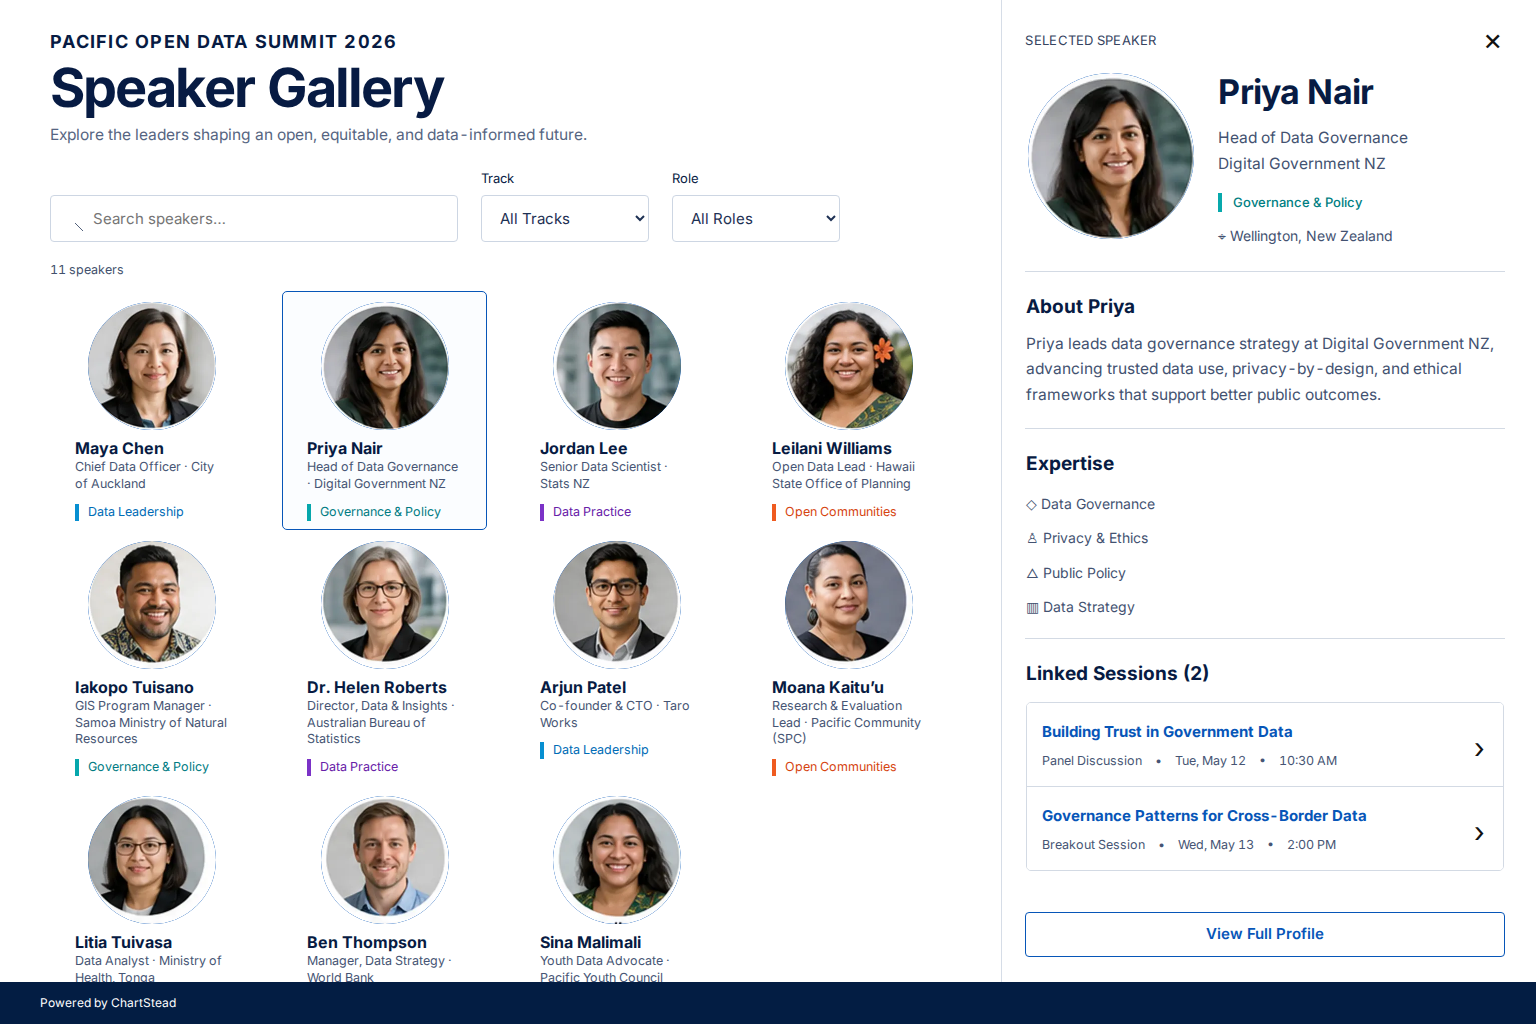
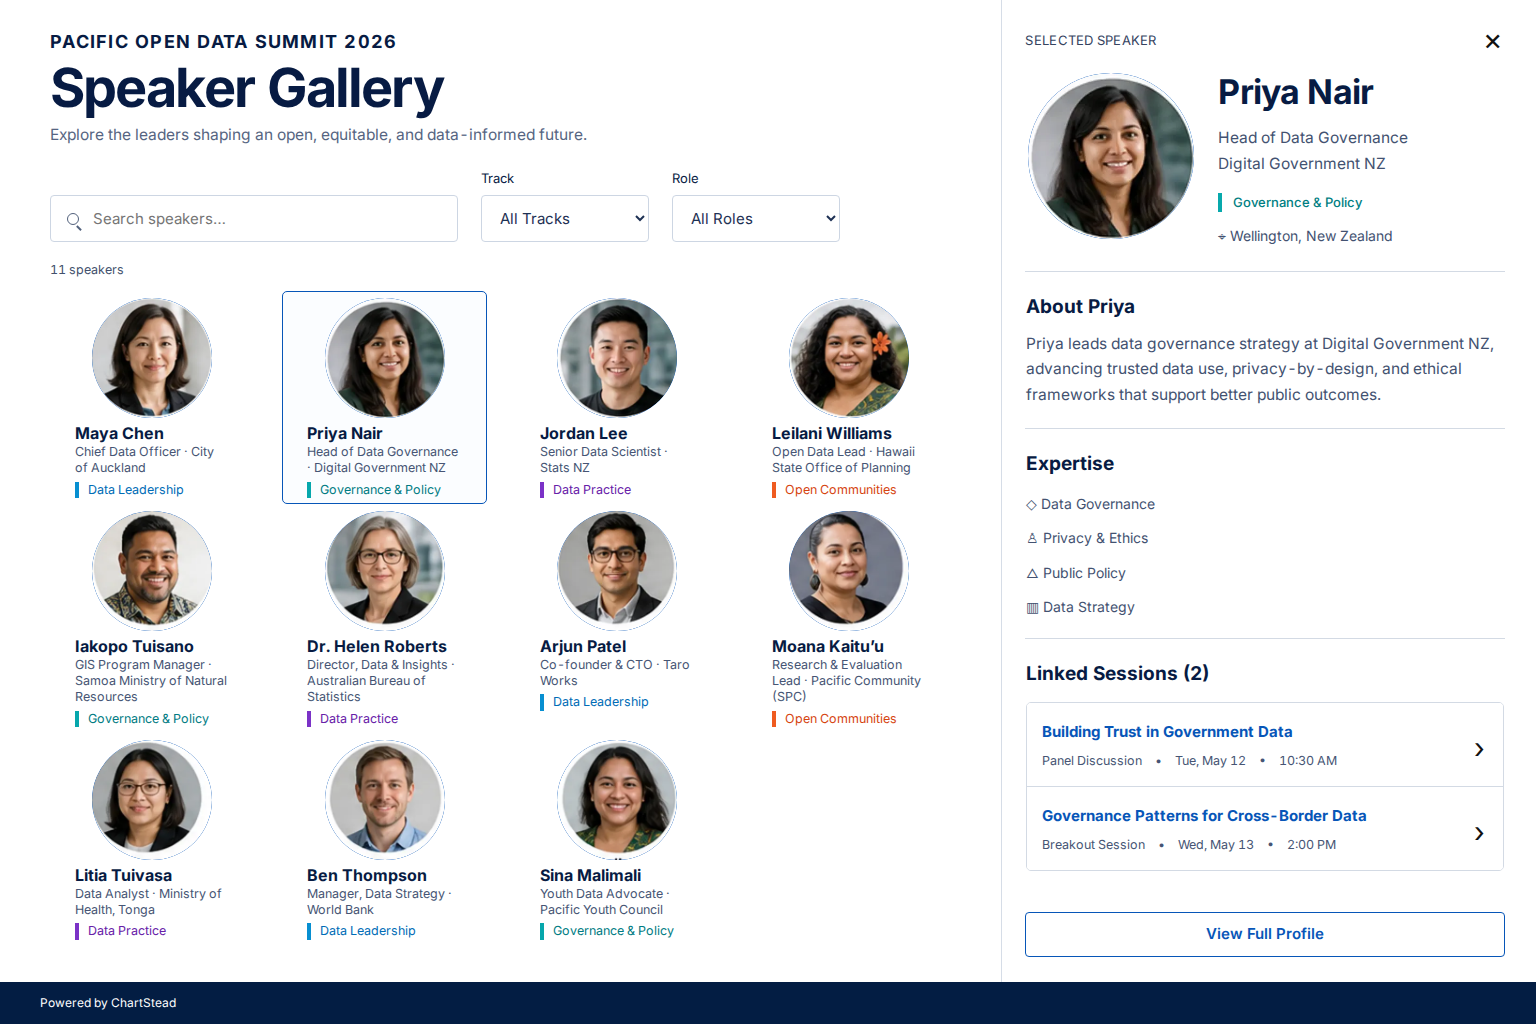
Keep speaker metadata clear of embed footer

diff --git a/src/styles.css b/src/styles.css
@@ -9148,18 +9148,21 @@ body:has(.agenda-auto-scope) .app-select-popup-toolbar {
 .signal-gallery-filters { display: grid; grid-template-columns: minmax(290px, 408px) 168px 168px; gap: 23px; align-items: end; margin-top: 23px; }
 .signal-gallery-filters label { display: grid; gap: 7px; font-size: 13px; color: #071b43; }
 .signal-gallery-filters input, .signal-gallery-filters select { width: 100%; height: 47px; padding: 0 14px; border: 1px solid #cdd6e3; border-radius: 4px; background: #fff; color: #1e3154; font: inherit; font-size: 15px; }
-.signal-gallery-filters input { padding-left: 42px; background: linear-gradient(45deg, transparent 45%, #52617c 46% 54%, transparent 55%) 24px 27px/8px 8px no-repeat; }
+.signal-search { position: relative; }
+.signal-search::before { content: ""; position: absolute; z-index: 1; left: 17px; bottom: 17px; width: 10px; height: 10px; border: 1.5px solid #52617c; border-radius: 50%; pointer-events: none; }
+.signal-search::after { content: ""; position: absolute; z-index: 1; left: 27px; bottom: 15px; width: 6px; height: 1.5px; background: #52617c; transform: rotate(45deg); transform-origin: left center; pointer-events: none; }
+.signal-gallery-filters input { padding-left: 42px; }
 .signal-gallery-filters input:focus-visible, .signal-gallery-filters select:focus-visible, .signal-gallery-grid button:focus-visible, .signal-speaker-panel button:focus-visible { outline: 3px solid #83b8ee; outline-offset: 2px; }
 .signal-gallery-count { margin: 19px 0 12px; font-size: 12.5px; color: #42516d; }
 .signal-gallery-grid { display: grid; grid-template-columns: repeat(4, minmax(0, 1fr)); column-gap: 28px; row-gap: 0; margin: 0; padding: 0; list-style: none; }
-.signal-gallery-grid .program-speaker-gallery-card { min-height: 220px; align-content: start; justify-items: start; gap: 8px; padding: 10px 24px 8px; border: 1px solid transparent; border-radius: 5px; background: transparent; text-align: left; }
+.signal-gallery-grid .program-speaker-gallery-card { min-height: 204px; align-content: start; justify-items: start; gap: 5px; padding: 6px 24px 5px; border: 1px solid transparent; border-radius: 5px; background: transparent; text-align: left; }
 .signal-gallery-grid .program-speaker-gallery-card:hover { background: #f7f9fc; }
 .signal-gallery-grid .program-speaker-gallery-card[aria-pressed="true"] { border-color: #0756b8; outline: 0; background: #fbfdff; }
-.signal-gallery-grid .program-speaker-avatar.is-large { width: 128px; height: 128px; margin-inline: auto; border: 0; }
+.signal-gallery-grid .program-speaker-avatar.is-large { width: 120px; height: 120px; margin-inline: auto; border: 0; }
 .signal-gallery-grid .program-speaker-gallery-card > span:not(.program-speaker-avatar) { display: grid; gap: 1px; width: 100%; }
 .signal-gallery-grid .program-speaker-gallery-card strong { font-size: 16px; line-height: 1.25; color: #071b43; }
-.signal-gallery-grid .program-speaker-gallery-card span span { font-size: 12.5px; line-height: 1.35; color: #465574; }
-.signal-gallery-grid .program-speaker-gallery-card span span::after { content: "Data Leadership"; display: block; margin-top: 11px; padding-left: 9px; border-left: 4px solid #078fd1; color: #006cb6; white-space: nowrap; }
+.signal-gallery-grid .program-speaker-gallery-card span span { font-size: 12.5px; line-height: 1.3; color: #465574; }
+.signal-gallery-grid .program-speaker-gallery-card span span::after { content: "Data Leadership"; display: block; margin-top: 5px; padding-left: 9px; border-left: 4px solid #078fd1; color: #006cb6; white-space: nowrap; }
 .signal-gallery-grid li:nth-child(3n+2) .program-speaker-gallery-card span span::after { content: "Governance & Policy"; border-color: #06a7ac; color: #007b83; }
 .signal-gallery-grid li:nth-child(3n) .program-speaker-gallery-card span span::after { content: "Data Practice"; border-color: #7b32c7; color: #6720a8; }
 .signal-gallery-grid li:nth-child(4n) .program-speaker-gallery-card span span::after { content: "Open Communities"; border-color: #ef5b20; color: #d6440f; }

diff --git a/.scratch/chartstead-competition-build/issues/46-premium-speaker-gallery-embed.md b/.scratch/chartstead-competition-build/issues/46-premium-speaker-gallery-embed.md
@@ -32,3 +32,4 @@ None — Competition 09 and Rubric 23 already provide the working public embed f
 - 2026-08-14 — Deterministic comparison route: `http://100.105.117.93:5446/e/pacific-open-data-summit-2026/program/embed?widget=speaker-gallery&fixture=signal-rail`. Capture: `npx playwright screenshot --viewport-size=1536,1024 --wait-for-timeout=900 '<route>' .scratch/qa/ticket-46/final.png`.
 - 2026-08-14 — Visual comparison ledger (3 iterations): (1) structure constrained by inherited 960px widget width, missing Role control, page chrome and oversized rows; corrected with full-width embed shell and widget-local grid. (2) correct four-column rail and detail structure, but selected portrait sat 18px low, rows were too tall, footer below viewport, and source ordering was lost; corrected rail density, intro spacing, fixed attribution, and stable fixture order. (3/final) no meaningful mismatch remains in structure, alignment, scale, spacing, typography, color, borders, controls, portrait crops, imagery, or density. Final evidence: `design/qa/ticket-46/speaker-gallery-final-1536x1024.png`; narrow evidence: `.scratch/qa/ticket-46/narrow-390x844.png`.
 - 2026-08-14 — Verification: `npm run build`; `npm run test:ui -- --run test/ui/public-program.test.tsx` (10/10); `/api/events` JSON 200; fixture 200; listener confirmed on `0.0.0.0:5446`. Status intentionally remains `in-progress` for orchestrator review.
+- 2026-08-14 — Independent review found the fixed footer obscured third-row metadata in iteration 3. Iteration 4 reduced gallery-only portrait/card vertical density and replaced the improvised search slash with a local CSS magnifier. At exactly 1536×1024, Litia, Ben, and Sina now show complete role, organization, and track metadata above the footer while the selected-speaker dossier geometry is unchanged. Re-captured committed final evidence; Vision comparison reports no remaining bottom collision or meaningful mismatch.
